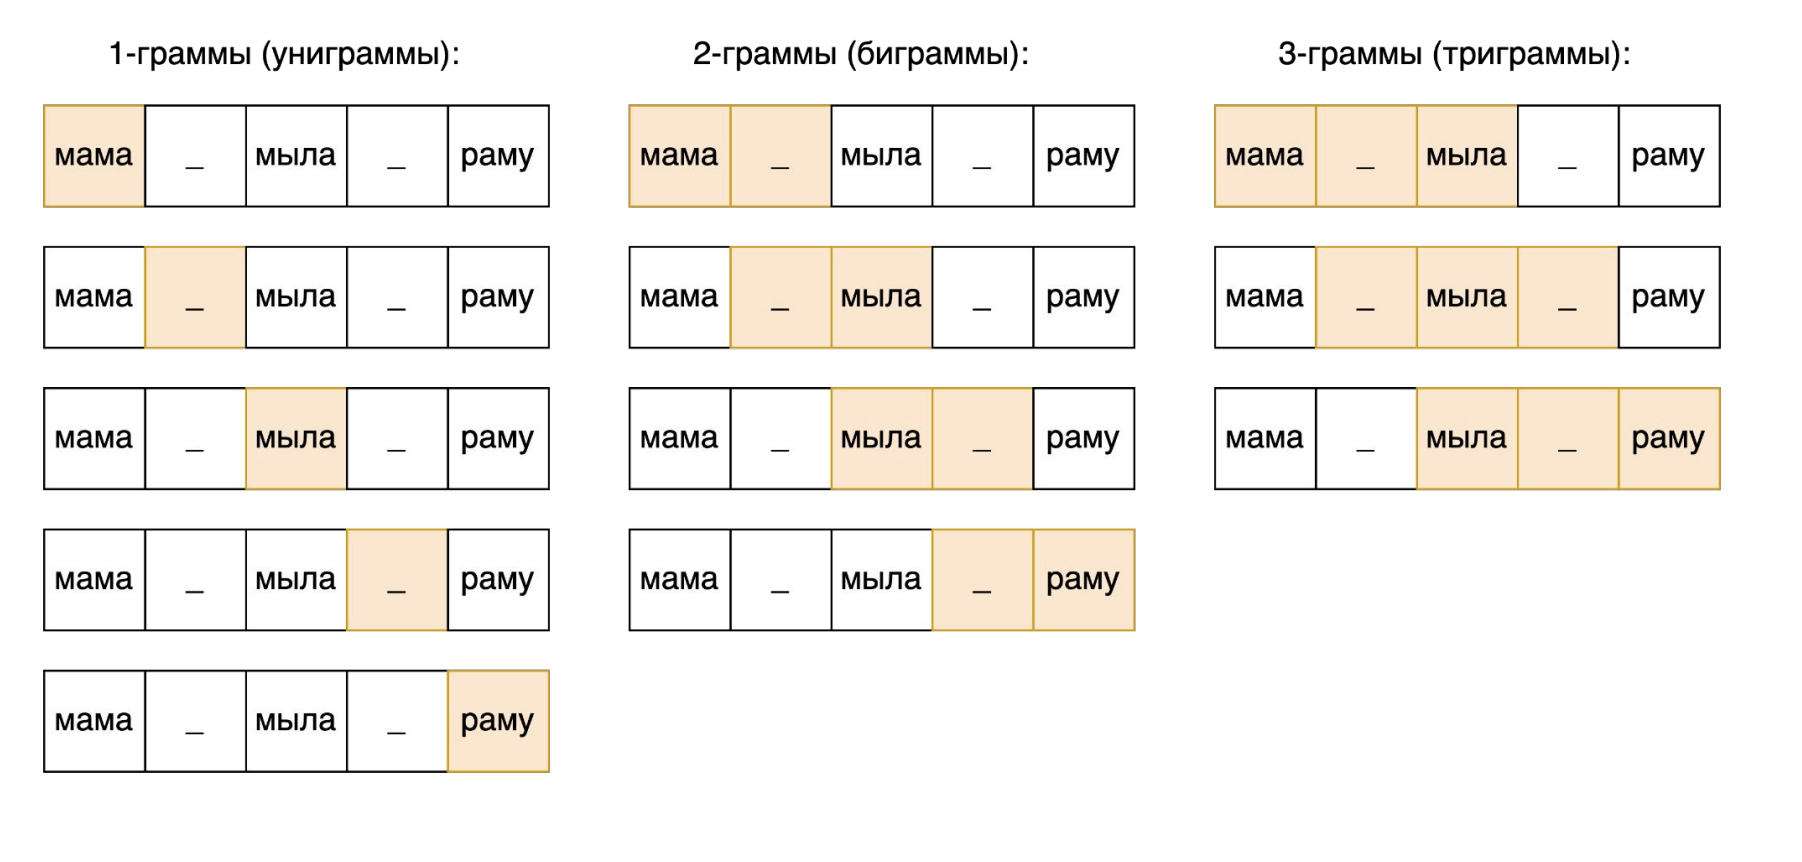
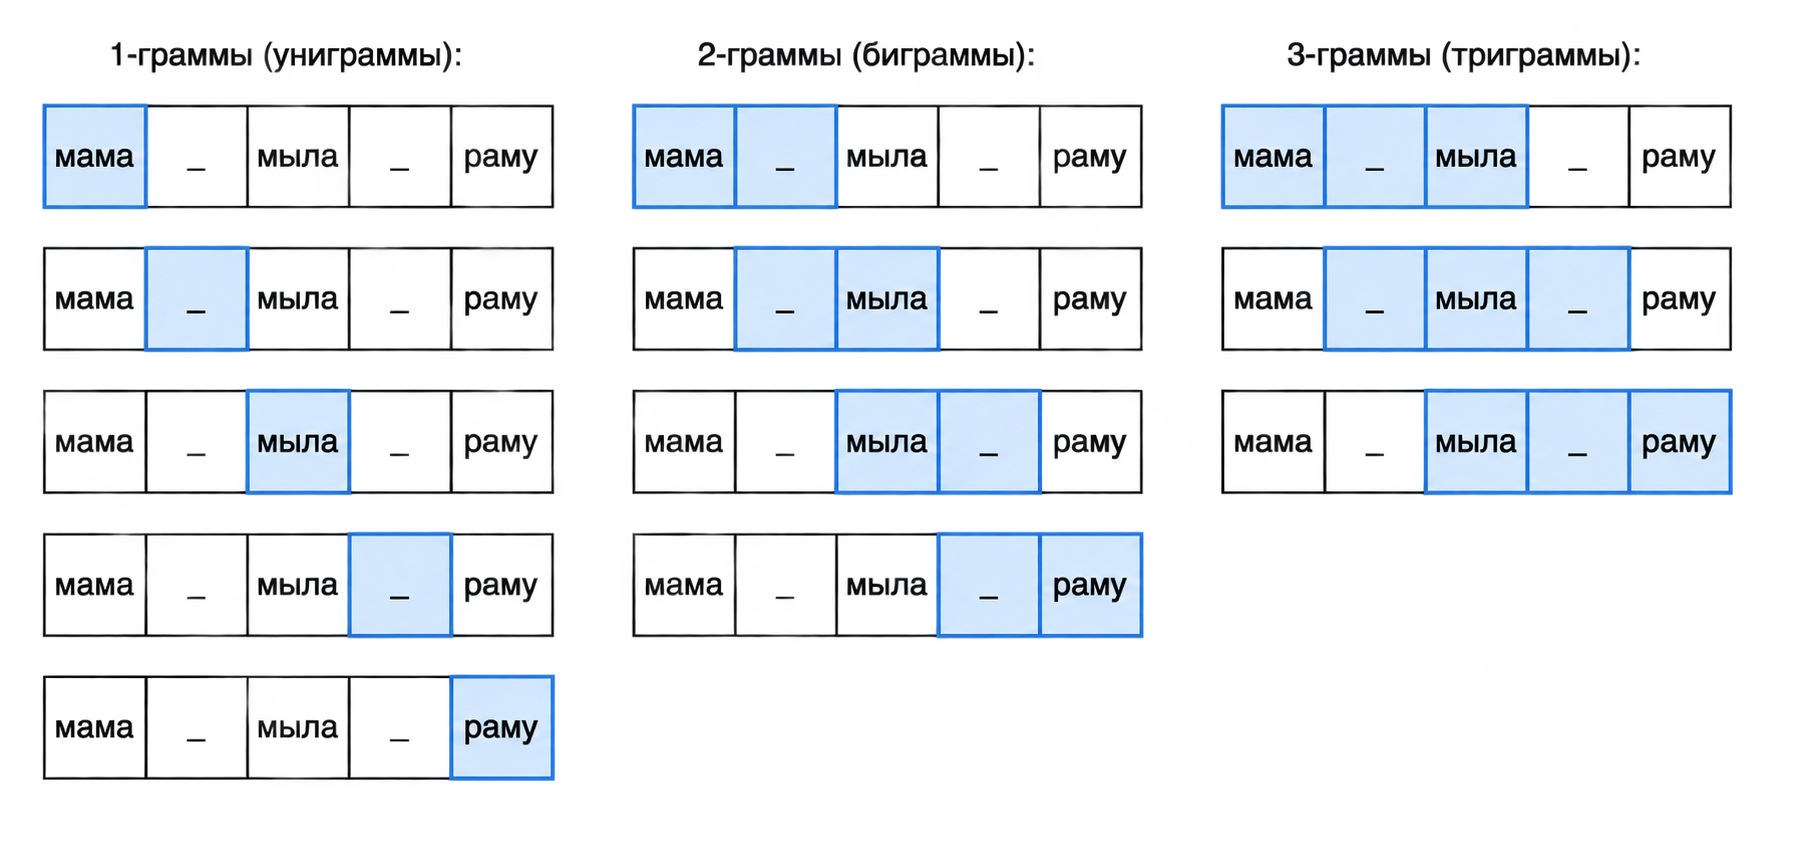
Quartz sync: Oct 25, 2026, 7:52 PM

diff --git a/content/DL/nlp/4. Задача языкового моделирования/index.md b/content/DL/nlp/4. Задача языкового моделирования/index.md
@@ -18,7 +18,7 @@ title: 4. Задача языкового моделирования
 > [!INFO] **Языковая модель**
 > Языковая модель (language model, LM) — вероятностная модель, оценивающая вероятность текстовых последовательностей и их продолжений. При обучении на текстовых данных она выявляет статистические закономерности совместной встречаемости слов и языковых конструкций.
 
-![[LM.webp]]
+![[LM.png]]
 
 Языковые модели применяются как для оценки вероятности текста, так и для генерации продолжений. Первая возможность используется, например, при сравнении вариантов формулировок; вторая — при автоматическом создании текста.
 
@@ -355,7 +355,7 @@ $$
 
 LSTM использует входной, забывающий и выходной вентили, которые регулируют запись, сохранение и передачу информации. Такая структура облегчает обучение длинным зависимостям, но не устраняет последовательный характер вычислений.
 
-![[LSTM_3.svg]]
+![[LSTM_3.png]]
 
 ## Sequence-to-sequence
 
